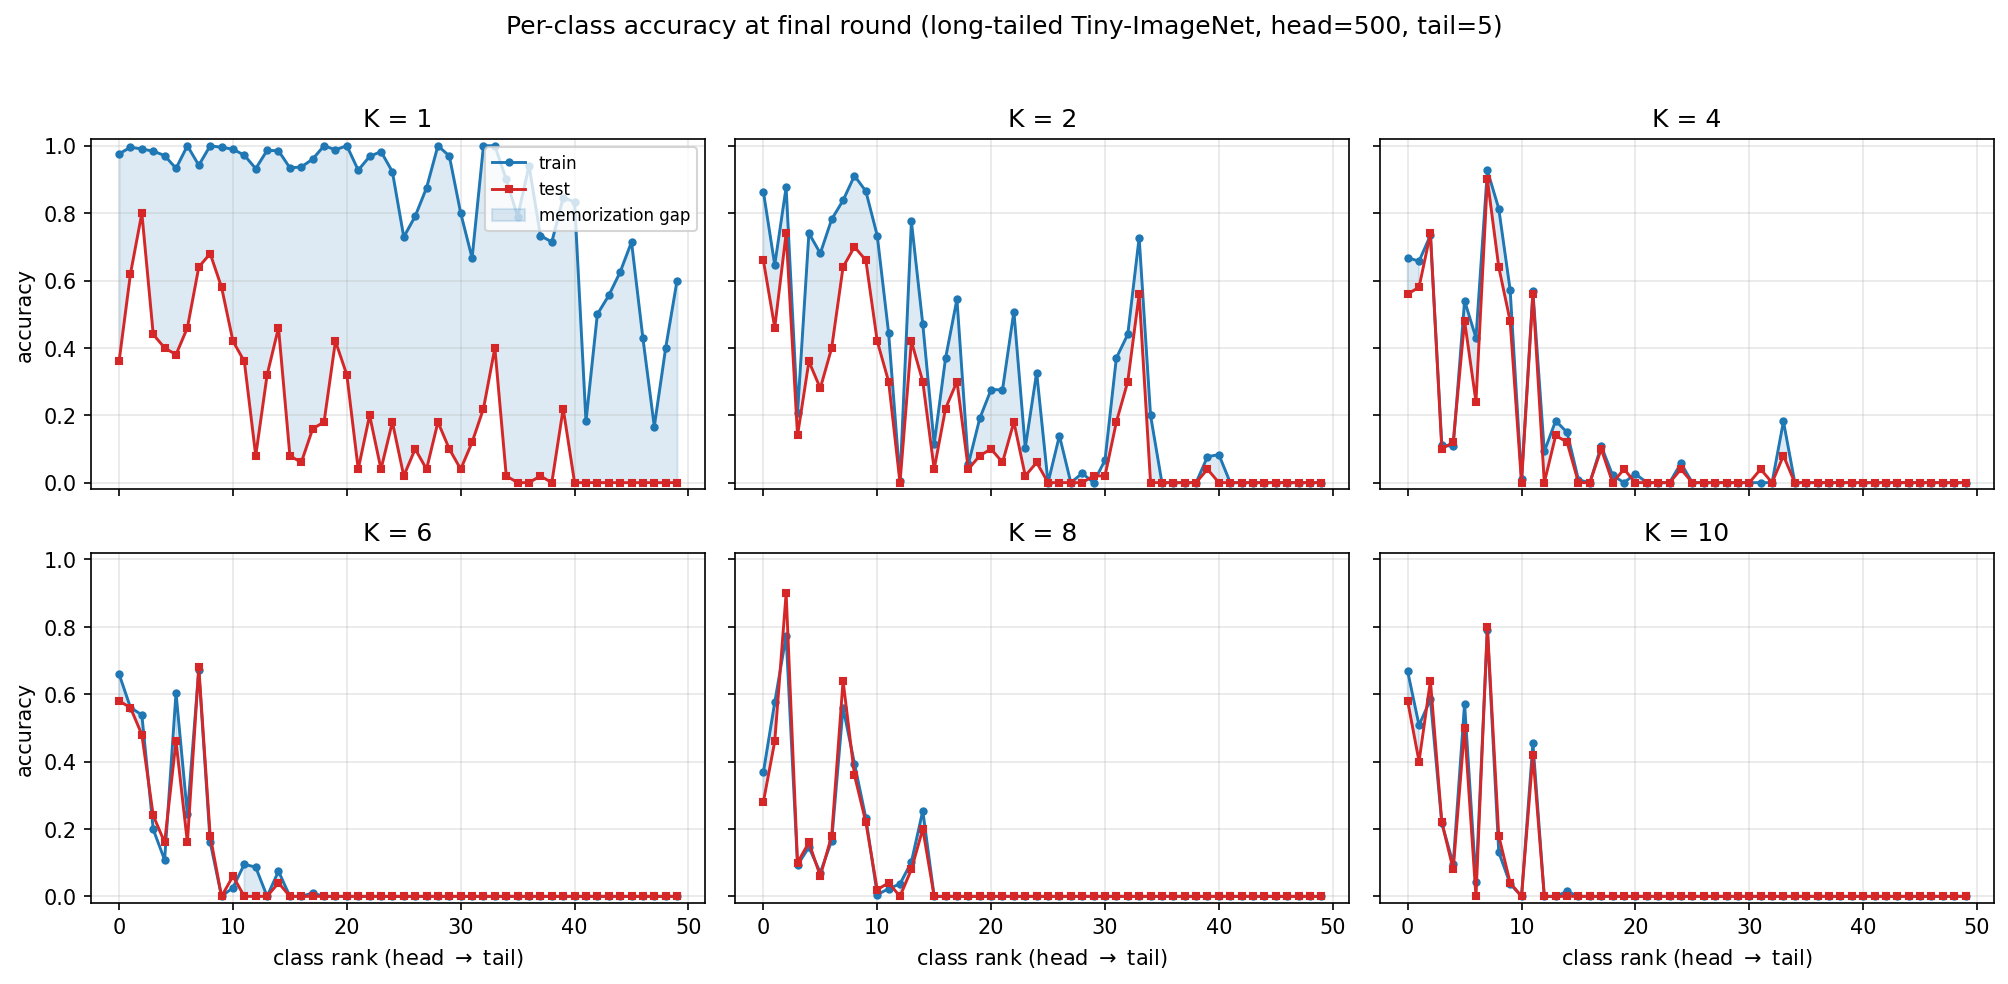
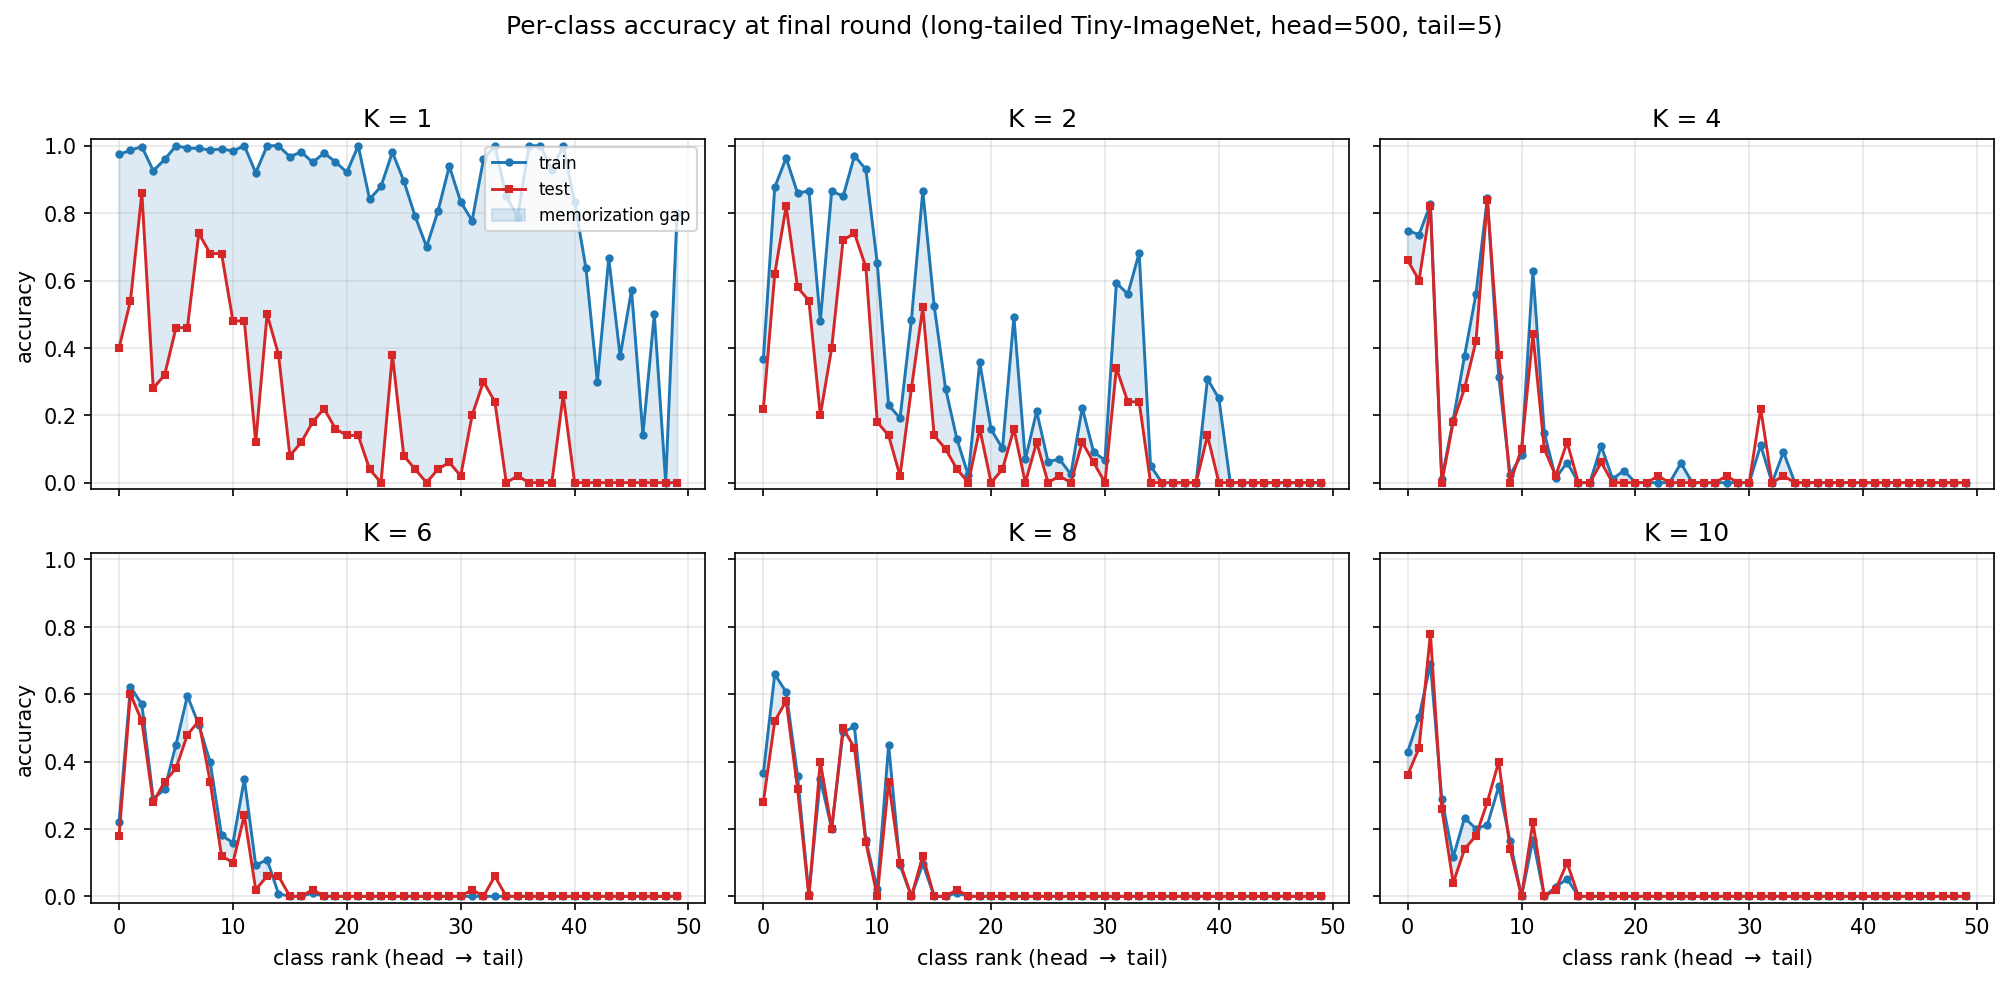
FedAvg memorization exp: per-client iid train+test splits
Re-run sweep K in {1,2,4,6,8,10} with each client receiving an iid
train *and* test partition from a synchronized Dirichlet(alpha=0.5)
draw, instead of a global test set. Adds fig6_per_client_box.png
showing per-client distributions of train/test/gap across K.
Memorization gap collapses from ~75pt (K=1) to ~15pt (K=10), with
tail-class test acc near zero throughout.

diff --git a/notes/fedavg_exp/dpfedavg.py b/notes/fedavg_exp/dpfedavg.py
@@ -85,31 +85,42 @@ def build_long_tailed(num_classes, head_count, tail_count, seed=0):
     return train_samples, test_samples, wnids, counts
 
 
-def dirichlet_partition(train_samples, num_clients, alpha, num_classes, seed=0):
-    """Return list of K lists of indices into train_samples."""
+def dirichlet_partition_synced(train_samples, test_samples, num_clients, alpha,
+                                num_classes, seed=0):
+    """Partition train and test indices with the *same* per-class Dirichlet
+    proportions, so each client receives an i.i.d. (train_k, test_k) pair from
+    the client-specific class distribution. Returns (client_train, client_test).
+    """
     rng = np.random.default_rng(seed)
-    by_class = defaultdict(list)
+    train_by_class, test_by_class = defaultdict(list), defaultdict(list)
     for idx, (_, y) in enumerate(train_samples):
-        by_class[y].append(idx)
-    client_indices = [[] for _ in range(num_clients)]
+        train_by_class[y].append(idx)
+    for idx, (_, y) in enumerate(test_samples):
+        test_by_class[y].append(idx)
+    client_train = [[] for _ in range(num_clients)]
+    client_test = [[] for _ in range(num_clients)]
     for c in range(num_classes):
-        idxs = by_class[c]
-        rng.shuffle(idxs)
-        if not idxs:
-            continue
         if num_clients == 1:
-            client_indices[0].extend(idxs)
+            client_train[0].extend(train_by_class[c])
+            client_test[0].extend(test_by_class[c])
             continue
         proportions = rng.dirichlet([alpha] * num_clients)
-        # cumulative split
-        proportions = (np.cumsum(proportions) * len(idxs)).astype(int)[:-1]
-        chunks = np.split(np.array(idxs), proportions)
-        for k, chunk in enumerate(chunks):
-            client_indices[k].extend(chunk.tolist())
-    # shuffle each client's index list for SGD ordering
-    for ci in client_indices:
+        for samples_by_class, client_lists in (
+            (train_by_class, client_train), (test_by_class, client_test)
+        ):
+            idxs = list(samples_by_class[c])
+            if not idxs:
+                continue
+            rng.shuffle(idxs)
+            cuts = (np.cumsum(proportions) * len(idxs)).astype(int)[:-1]
+            chunks = np.split(np.array(idxs), cuts)
+            for k, chunk in enumerate(chunks):
+                client_lists[k].extend(chunk.tolist())
+    for ci in client_train:
         rng.shuffle(ci)
-    return client_indices
+    for ci in client_test:
+        rng.shuffle(ci)
+    return client_train, client_test
 
 
 # ---------------------- model ----------------------
@@ -200,24 +211,31 @@ def run_one(args, K, train_samples, test_samples, num_classes, counts, device, o
     train_eval_ds = TinyImageNetSubset(train_samples, eval_tf)
     test_ds = TinyImageNetSubset(test_samples, eval_tf)
 
-    client_indices = dirichlet_partition(train_samples, K, args.dirichlet_alpha,
-                                         num_classes, seed=seed)
-    print(f"[K={K}] client sizes:", [len(c) for c in client_indices])
+    client_train_idx, client_test_idx = dirichlet_partition_synced(
+        train_samples, test_samples, K, args.dirichlet_alpha, num_classes, seed=seed)
+    print(f"[K={K}] client train sizes:", [len(c) for c in client_train_idx])
+    print(f"[K={K}] client  test sizes:", [len(c) for c in client_test_idx])
 
     test_loader = DataLoader(test_ds, batch_size=256, shuffle=False, num_workers=2,
                              pin_memory=True)
     train_eval_loader = DataLoader(train_eval_ds, batch_size=256, shuffle=False,
                                    num_workers=2, pin_memory=True)
-    client_eval_loaders = [
+    client_train_eval_loaders = [
         DataLoader(Subset(train_eval_ds, idx), batch_size=256, shuffle=False,
                    num_workers=1, pin_memory=True) if len(idx) > 0 else None
-        for idx in client_indices
+        for idx in client_train_idx
+    ]
+    client_test_loaders = [
+        DataLoader(Subset(test_ds, idx), batch_size=256, shuffle=False,
+                   num_workers=1, pin_memory=True) if len(idx) > 0 else None
+        for idx in client_test_idx
     ]
 
     global_model = make_model(num_classes).to(device)
     history = {"K": K, "rounds": [],
                "test_acc_by_class": [], "train_acc_by_class": [],
                "client_train_acc_by_class_final": None,
+               "client_test_acc_by_class_final": None,
                "counts": counts}
 
     for r in range(args.rounds):
@@ -225,7 +243,7 @@ def run_one(args, K, train_samples, test_samples, num_classes, counts, device, o
         agg_delta = torch.zeros_like(global_flat)
         active = 0
         for k in range(K):
-            idx = client_indices[k]
+            idx = client_train_idx[k]
             if len(idx) == 0:
                 continue
             local_model = make_model(num_classes).to(device)
@@ -261,20 +279,27 @@ def run_one(args, K, train_samples, test_samples, num_classes, counts, device, o
                   f"head5_train={tr_acc[:5].mean():.3f}  head5_test={te_acc[:5].mean():.3f}  "
                   f"tail5_train={tr_acc[-5:].mean():.3f}  tail5_test={te_acc[-5:].mean():.3f}")
 
-    # final per-client per-class train accuracy of the *global* model
-    client_grid = []
-    for k, ldr in enumerate(client_eval_loaders):
-        if ldr is None:
-            client_grid.append([float("nan")] * num_classes)
-            continue
-        acc, _ = per_class_acc(global_model, ldr, num_classes, device)
-        client_grid.append(acc.tolist())
-    history["client_train_acc_by_class_final"] = client_grid
-    history["client_indices_sizes"] = [len(c) for c in client_indices]
-    history["client_class_counts"] = [
-        [sum(1 for i in idx if train_samples[i][1] == c) for c in range(num_classes)]
-        for idx in client_indices
-    ]
+    # final per-client per-class train and test accuracy of the *global* model
+    def grid(loaders):
+        out_grid, totals = [], []
+        for ldr in loaders:
+            if ldr is None:
+                out_grid.append([float("nan")] * num_classes)
+                totals.append([0] * num_classes)
+                continue
+            acc, tot = per_class_acc(global_model, ldr, num_classes, device)
+            out_grid.append(acc.tolist())
+            totals.append(tot.tolist())
+        return out_grid, totals
+
+    tr_grid, tr_totals = grid(client_train_eval_loaders)
+    te_grid, te_totals = grid(client_test_loaders)
+    history["client_train_acc_by_class_final"] = tr_grid
+    history["client_test_acc_by_class_final"] = te_grid
+    history["client_train_class_counts"] = tr_totals
+    history["client_test_class_counts"] = te_totals
+    history["client_train_sizes"] = [len(c) for c in client_train_idx]
+    history["client_test_sizes"] = [len(c) for c in client_test_idx]
 
     out = out_dir / f"K{K:02d}.json"
     out.write_text(json.dumps(history))

diff --git a/notes/fedavg_exp/plot.py b/notes/fedavg_exp/plot.py
@@ -148,36 +148,105 @@ def fig3_summary(cfg, runs):
 
 
 def fig4_client_heatmap(cfg, runs):
-    """For K=10 (or largest K), heatmap of per-client train acc by class
-    (global model eval'd on each client's local train data, by class)."""
+    """Per-client per-class heatmaps for the largest K: global model train acc,
+    test acc, and the train/test gap. Cells with no samples shown grey."""
     Ks = sorted(runs.keys())
     K = max(Ks)
     h = runs[K]
     counts = np.array(cfg["counts"])
     order = np.argsort(-counts)
-    grid = np.array(h["client_train_acc_by_class_final"])[:, order]
-    client_class_counts = np.array(h.get("client_class_counts", [[0]]))[
-        :, order] if h.get("client_class_counts") else None
 
-    fig, axes = plt.subplots(1, 2, figsize=(13, 4))
-    im0 = axes[0].imshow(grid, aspect="auto", vmin=0, vmax=1, cmap="magma")
+    tr = np.array(h["client_train_acc_by_class_final"])[:, order]
+    te_key = "client_test_acc_by_class_final"
+    has_test = te_key in h and h[te_key] is not None
+    te = np.array(h[te_key])[:, order] if has_test else None
+    tr_n = np.array(h.get("client_train_class_counts", [[0]] * K))[:, order]
+    te_n = np.array(h.get("client_test_class_counts",  [[0]] * K))[:, order]
+
+    # mask cells with no examples (so missing != black)
+    tr_masked = np.ma.masked_where(tr_n == 0, tr)
+    te_masked = np.ma.masked_where(te_n == 0, te) if te is not None else None
+
+    cmap = plt.cm.magma.copy()
+    cmap.set_bad("0.7")
+
+    ncols = 3 if has_test else 2
+    fig, axes = plt.subplots(1, ncols, figsize=(5.5 * ncols, 4.2))
+    im0 = axes[0].imshow(tr_masked, aspect="auto", vmin=0, vmax=1, cmap=cmap)
     axes[0].set_xlabel("class rank (head $\\rightarrow$ tail)")
-    axes[0].set_ylabel("client index")
-    axes[0].set_title(f"Global model train accuracy on each client's data (K={K})")
+    axes[0].set_ylabel("client")
+    axes[0].set_title(f"Per-client train acc (K={K})")
     fig.colorbar(im0, ax=axes[0], label="accuracy")
 
-    if client_class_counts is not None:
-        im1 = axes[1].imshow(client_class_counts, aspect="auto", cmap="Blues",
-                             norm=plt.matplotlib.colors.LogNorm(
-                                 vmin=max(1, client_class_counts[client_class_counts > 0].min()
-                                          if (client_class_counts > 0).any() else 1),
-                                 vmax=max(1, client_class_counts.max())))
+    if has_test:
+        im1 = axes[1].imshow(te_masked, aspect="auto", vmin=0, vmax=1, cmap=cmap)
         axes[1].set_xlabel("class rank (head $\\rightarrow$ tail)")
-        axes[1].set_ylabel("client index")
-        axes[1].set_title("# samples per (client, class)")
-        fig.colorbar(im1, ax=axes[1], label="count (log)")
+        axes[1].set_ylabel("client")
+        axes[1].set_title(f"Per-client test acc (K={K})")
+        fig.colorbar(im1, ax=axes[1], label="accuracy")
+
+        gap = np.where((tr_n > 0) & (te_n > 0), tr - te, np.nan)
+        gap_masked = np.ma.masked_invalid(gap)
+        gcmap = plt.cm.RdBu_r.copy()
+        gcmap.set_bad("0.7")
+        im2 = axes[-1].imshow(gap_masked, aspect="auto", vmin=-0.6, vmax=0.6, cmap=gcmap)
+        axes[-1].set_xlabel("class rank (head $\\rightarrow$ tail)")
+        axes[-1].set_ylabel("client")
+        axes[-1].set_title(f"Memorization gap (train $-$ test), K={K}")
+        fig.colorbar(im2, ax=axes[-1], label="gap")
     fig.tight_layout()
     fig.savefig(OUT / "fig4_client_heatmap.png", dpi=150, bbox_inches="tight")
+    plt.close(fig)
+
+
+def fig6_per_client_summary(cfg, runs):
+    """For each K, the distribution of per-client (own-train, own-test) accuracy
+    and per-client gap. Boxplots over clients."""
+    Ks = sorted(runs.keys())
+    have_test = all("client_test_acc_by_class_final" in runs[K] and
+                    runs[K]["client_test_acc_by_class_final"] is not None for K in Ks)
+    if not have_test:
+        return
+    fig, axes = plt.subplots(1, 3, figsize=(15, 4))
+
+    def per_client_means(h, key, counts_key):
+        accs = np.array(h[key])              # K x C
+        ns   = np.array(h[counts_key])       # K x C
+        # weighted mean over classes (weight by sample count) per client
+        w = ns
+        denom = w.sum(axis=1).clip(min=1)
+        return (accs * w).sum(axis=1) / denom
+
+    box_train, box_test, box_gap = [], [], []
+    for K in Ks:
+        h = runs[K]
+        tr = per_client_means(h, "client_train_acc_by_class_final",
+                              "client_train_class_counts")
+        te = per_client_means(h, "client_test_acc_by_class_final",
+                              "client_test_class_counts")
+        box_train.append(tr)
+        box_test.append(te)
+        box_gap.append(tr - te)
+
+    positions = list(range(1, len(Ks) + 1))
+    for ax, data, ttl, ylab in (
+        (axes[0], box_train, "Per-client train accuracy", "accuracy"),
+        (axes[1], box_test,  "Per-client test accuracy",  "accuracy"),
+        (axes[2], box_gap,   "Per-client memorization gap", "train $-$ test"),
+    ):
+        ax.boxplot(data, positions=positions, widths=0.55, showfliers=True,
+                   patch_artist=True,
+                   boxprops=dict(facecolor="#cfd8dc"),
+                   medianprops=dict(color="black"))
+        for i, vals in enumerate(data):
+            ax.scatter([positions[i]] * len(vals), vals, s=14, alpha=0.6,
+                       color="#1f77b4")
+        ax.set_xticks(positions); ax.set_xticklabels([f"K={K}" for K in Ks])
+        ax.set_title(ttl); ax.set_ylabel(ylab); ax.grid(True, alpha=0.3)
+        if ax is axes[2]:
+            ax.axhline(0, color="k", lw=0.5)
+    fig.tight_layout()
+    fig.savefig(OUT / "fig6_per_client_box.png", dpi=150, bbox_inches="tight")
     plt.close(fig)
 
 
@@ -214,6 +283,7 @@ def main():
     fig3_summary(cfg, runs)
     fig4_client_heatmap(cfg, runs)
     fig5_progression(cfg, runs)
+    fig6_per_client_summary(cfg, runs)
     print("figures written to", OUT)
 
 
